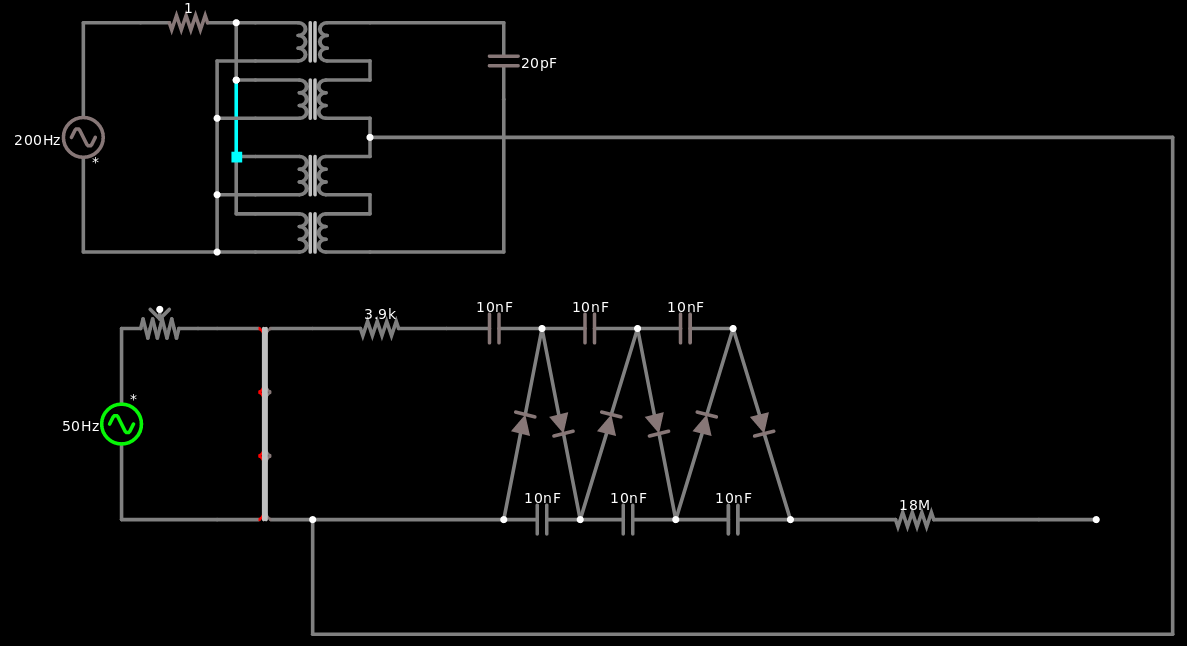
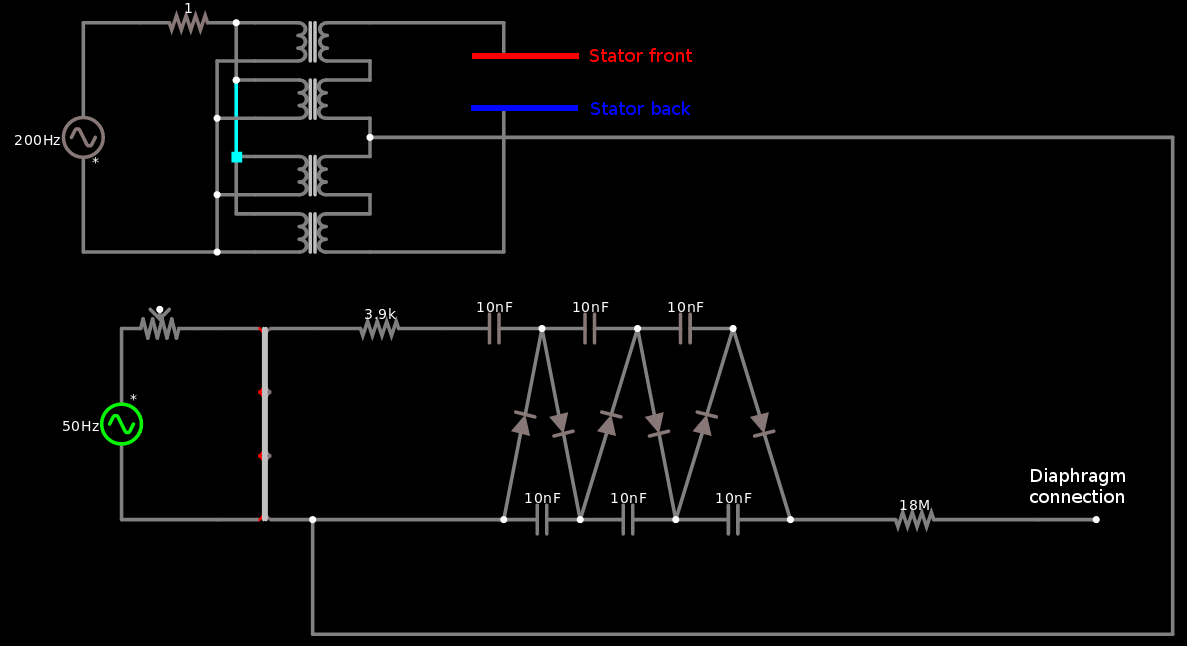
Write amplifier section

Changed region(s): [[0.4052, 0.0619, 0.5922, 0.1858], [0.8728, 0.7121, 0.9351, 0.805]]

diff --git a/main.tex b/main.tex
@@ -68,7 +68,16 @@ An electric drill was used for the assembly screws and headband construction. Th
 
 For the amplifier:
 \begin{enumerate}
-    \item TODO
+    \item 4 Audio transformers 6V - 230V (OEP N35A002F) \footnote{\url{https://uk.rs-online.com/web/p/audio-transformers/2106475/}}
+    \item 1 Power transformer 230V - 230V (Triad Magnetics FP230-25) \footnote{\url{https://eu.mouser.com/search/ProductDetail.aspx?r=553-FP230-25}}
+    \item 2 1 Ohm wirewound resistors \footnote{\url{https://eu.mouser.com/search/ProductDetail.aspx?r=71-RS0101R000FE73}}
+    \item 6 1kV diodes \footnote{\url{https://eu.mouser.com/search/ProductDetail.aspx?r=625-RGP10M-E3}}
+    \item 2 10 MOhm resistors \footnote{\url{https://eu.mouser.com/search/ProductDetail.aspx?r=594-SFR25H0001005JR5}}
+    \item 6 10 nF capacitors \footnote{\url{https://eu.mouser.com/search/ProductDetail.aspx?r=75-564R30GAS10}}
+    \item 1 3.9 kOhm resistor \footnote{\url{www.aliexpress.com}}
+    \item Power cord plus plug
+    \item Cables
+    \item Test circuit board
 \end{enumerate}
 
 \section{Building the driver}
@@ -269,12 +278,26 @@ A discussion on this amplifier design can be found on Head-fi.org \footnote{\url
 A note of warning before we continue with the details. We will be dealing with electronic equipment in the following which can cause serious injury or death so make sure you have a good understanding of what you are doing and follow proper safety procedures.
 
 Since we are not building a speaker we opted for a toned down version of Charlie's step up that would only lead to 580 volts at the diaphragm. A circuit diagram can be seen in Fig. \ref{f:amp:step-up} that was copied from circuitjs \footnote{\url{http://lushprojects.com/circuitjs/circuitjs.html}}.
+
 \begin{figure}[htb]
     \centering
     \includegraphics[width=0.7\textwidth]{images/step-up-transformer.png}
-    \caption{Step up transformer}
+    \caption{Step up transformer: circuit diagram}
     \label{f:amp:step-up}
 \end{figure}
+
+The final step-up transformer can be seen in Fig. \ref{f:amp:step-up-real}. As can be seen, we did not put it in a nice enclosing and this will also be part of next years project. The step-up transformer is divided in three parts, the blue and yellow part are the transformers for the left and right stators, respectively. Each of these section consists of one 1 Ohm resistor and 2 audio transformers from 6 V to 230 V. The OEP transformers that we used (see Section \ref{s:materials}) were connected on the B-D and 1-4 pins. This yields a 4000k to 95k winding ratio. The two transformers are connected in series and the output side is connected to the step-up part of the transformer as can be seen in Fig. \ref{f:amp:step-up}. Note that in the circuit diagram only one of these stator sections is depicted.
+
+\begin{figure}[htb]
+    \centering
+    \includegraphics[width=0.95\textwidth]{images/step-up-real-top.png}
+    \caption{Step up transformer from the top}
+    \label{f:amp:step-up-real}
+\end{figure}
+
+The green part in Fig. \ref{f:amp:step-up-real} corresponds to the lower part in the circuit diagram (Fig. \ref{f:amp:step-up}) and is responsible for converting the 230 V, 50 Hz AC input to a 580 V DC current. The AC input was connected to the Triad power transformer including a 250mA fast blow fuse. On the output side a 3.9 kOhm resister is put before the actual step-up ladder that can be seen in the circuit diagram. This ladder consists of 6 10 nF capacitors and 6 diodes to rectify the AC current. At the end of this ladder a 18 MOhm resistor is put before the connection to the diaphragm is made. Note that we made only one step-up ladder that is connected to both left and right diaphragms.
+
+Note that when operating the headphone its component will be charged and this charge will persist even if power to the transformer has been shut down. It is necessary to discharge all components before disassembly which can be achieved by leaving the power cord connected after shutdown and using the ground connection of the power cord. We hooked up a cable to the ground connection and discharge all outgoing ports by touching them briefly with this cable.
 
 %Check if it is possible to add a voltage regulator to try out different bias voltages easily \url{http://www.head-fi.org/t/498292/my-diy-electrostatic-headphones/1560#post_10959595}.
 %
@@ -289,7 +312,7 @@ Since we are not building a speaker we opted for a toned down version of Charlie
 \section{Measurements}
 \label{s:measurements}
 
-Measurements with and without seal should be performed. The latter should give a peak at around 200 Hz which is the free-air resonance frequency. This frequency should be lower than 150 Hz for a good bass response.
+As part of the current build we did not perform any measurements and this will become a topic for the future. The head-fi thread suggests to perform measurements with and without seal. The latter should give a peak at around 200 Hz which is the free-air resonance frequency. This frequency should be lower than 150 Hz for a good bass response.
 
 \section{What to do different in the future}
 \label{s:future}
